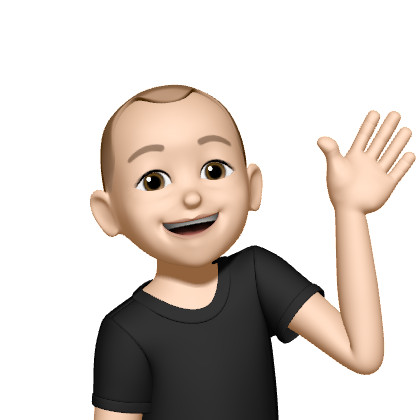
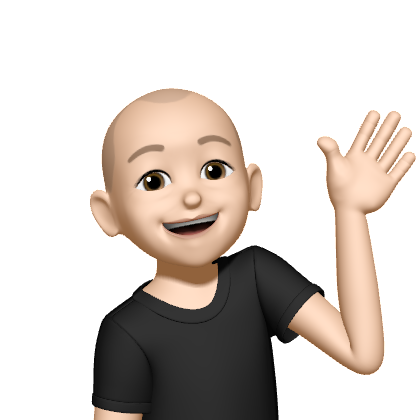
style updates

Changed region(s): [[0.2167, 0.1857, 0.5262, 0.4333], [0.5262, 0.2476, 0.5881, 0.4024], [0.2476, 0.4333, 0.2786, 0.4643]]

diff --git a/src/components/App.js b/src/components/App.js
@@ -1,9 +1,9 @@
-import React from "react";
+import React, { useState } from "react";
 
 // Styled Components
 import GlobalStyles from "./styles/Global";
 import { ThemeProvider } from "styled-components";
-import { theme } from "./styles/Theme";
+import { lightTheme, darkTheme } from "./styles/Theme";
 import { Wrapper, Section } from "./styles/Layout.styled";
 
 // Import components
@@ -11,12 +11,20 @@ import About from "../pages/About";
 import Landing from "../pages/Landing";
 import Portfolio from "../pages/Portfolio";
 import Contact from "../pages/Contact";
+import Memoji from "./Memoji";
+import ThemeButton from "./buttons/ThemeButton";
 
 function App() {
+  const [darkThemeIsSet, setDarkThemeIsSet] = useState(true);
+
   return (
-    <ThemeProvider theme={theme}>
+    <ThemeProvider theme={darkThemeIsSet ? darkTheme : lightTheme}>
       <GlobalStyles />
       <Wrapper>
+        <ThemeButton
+          darkThemeIsSet={darkThemeIsSet}
+          setDarkThemeIsSet={setDarkThemeIsSet}
+        />
         <Section section="landing">
           <Landing />
         </Section>
@@ -29,6 +37,7 @@ function App() {
         <Section section="contact">
           <Contact />
         </Section>
+        <Memoji />
       </Wrapper>
     </ThemeProvider>
   );

diff --git a/src/components/buttons/ThemeButton.js b/src/components/buttons/ThemeButton.js
@@ -1,0 +1,21 @@
+import React from "react";
+import { WiMoonAltFirstQuarter as Icon } from "react-icons/wi";
+
+// Styled components
+import { ThemeButton as Button } from "../styles/Buttons.styled";
+
+const ThemeButton = ({ darkThemeIsSet, setDarkThemeIsSet }) => {
+  // Handle theme change when button clicked
+  const handleClick = (e) => {
+    e.preventDefault();
+    setDarkThemeIsSet(!darkThemeIsSet);
+  };
+
+  return (
+    <Button onClick={(e) => handleClick(e)}>
+      <Icon />
+    </Button>
+  );
+};
+
+export default ThemeButton;

diff --git a/src/components/styles/Layout.styled.js b/src/components/styles/Layout.styled.js
@@ -6,6 +6,7 @@ export const Wrapper = styled.div`
   min-height: 100dvh;
   min-height: 100vh; /* In case dvh isn't supported by browser */
   grid-template-areas:
+    "header"
     "landing"
     "about"
     "portfolio"
@@ -16,4 +17,7 @@ export const Section = styled.div`
   grid-area: ${({ section }) => section};
   min-height: 100dvh;
   min-height: 100vh; /* Make each section at least the height of the viewport*/
+  display: grid;
+  place-items: center;
+  align-content: center;
 `;

diff --git a/src/pages/Landing.js b/src/pages/Landing.js
@@ -1,7 +1,5 @@
 import React from "react";
 
-import memoji from "../assets/images/memoji-wave.png";
-
 // Styled components
 import { Wrapper } from "../components/styles/Landing.styled";
 
@@ -10,7 +8,6 @@ const Landing = () => {
     <Wrapper>
       <h1>Hey, I'm Nic Mortelliti</h1>
       <p>Web Developer | Systems Engineer | Pilot</p>
-      <img src={memoji} alt="memoji" />
     </Wrapper>
   );
 };

diff --git a/src/components/styles/Buttons.styled.js b/src/components/styles/Buttons.styled.js
@@ -25,3 +25,16 @@ export const Button = styled.button`
     transform: translate(2px, 2px);
   }
 `;
+
+export const ThemeButton = styled.button`
+  cursor: pointer;
+  border: none;
+  background: none;
+  margin: 1rem;
+  padding: 1.5rem;
+  font-size: 2rem;
+
+  &:active {
+    transform: translate(2px, 2px);
+  }
+`;

diff --git a/src/components/styles/Global.js b/src/components/styles/Global.js
@@ -17,7 +17,11 @@ html {
 }
 
 body {
-  background: ${({ theme }) => theme.bgColor};
+  background: ${({ theme }) => theme.body};
+  color: ${({ theme }) => theme.text};
+
+  transition: all 0.25s linear;
+
   animation: fadein 2s;
   @keyframes fadein {
     from { opacity: 0; }

diff --git a/src/components/styles/Theme.js b/src/components/styles/Theme.js
@@ -13,3 +13,15 @@ export const theme = {
   black: black,
   white: white,
 };
+
+export const lightTheme = {
+  body: primary,
+  text: secondary,
+  accent: accent,
+};
+
+export const darkTheme = {
+  body: accent,
+  text: white,
+  accent: primary,
+};

diff --git a/src/components/Memoji.js b/src/components/Memoji.js
@@ -1,0 +1,13 @@
+import React from 'react'
+
+import memoji from "../assets/images/memoji-wave.png";
+
+const Memoji = () => {
+  return (
+    <div>
+      <img src={memoji} alt="memoji" />
+    </div>
+  );
+}
+
+export default Memoji
